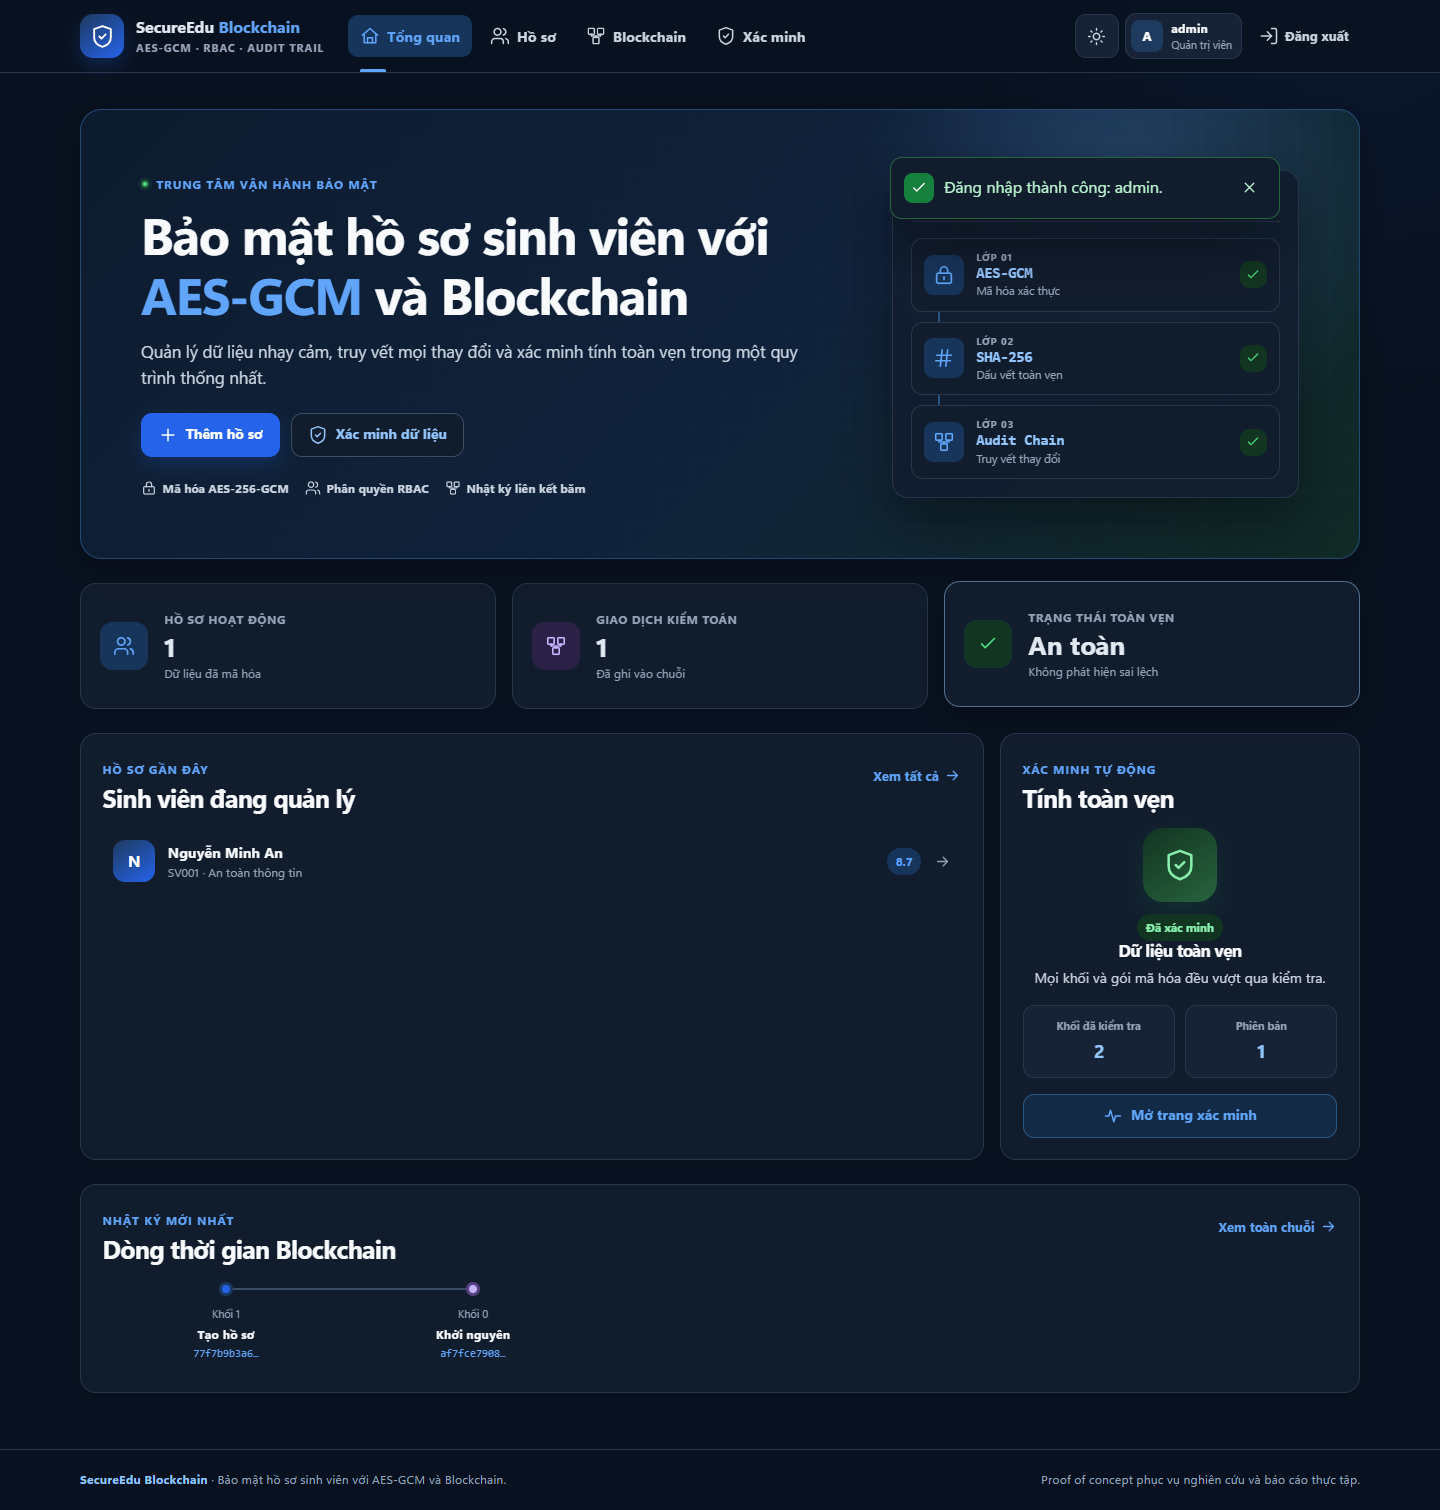
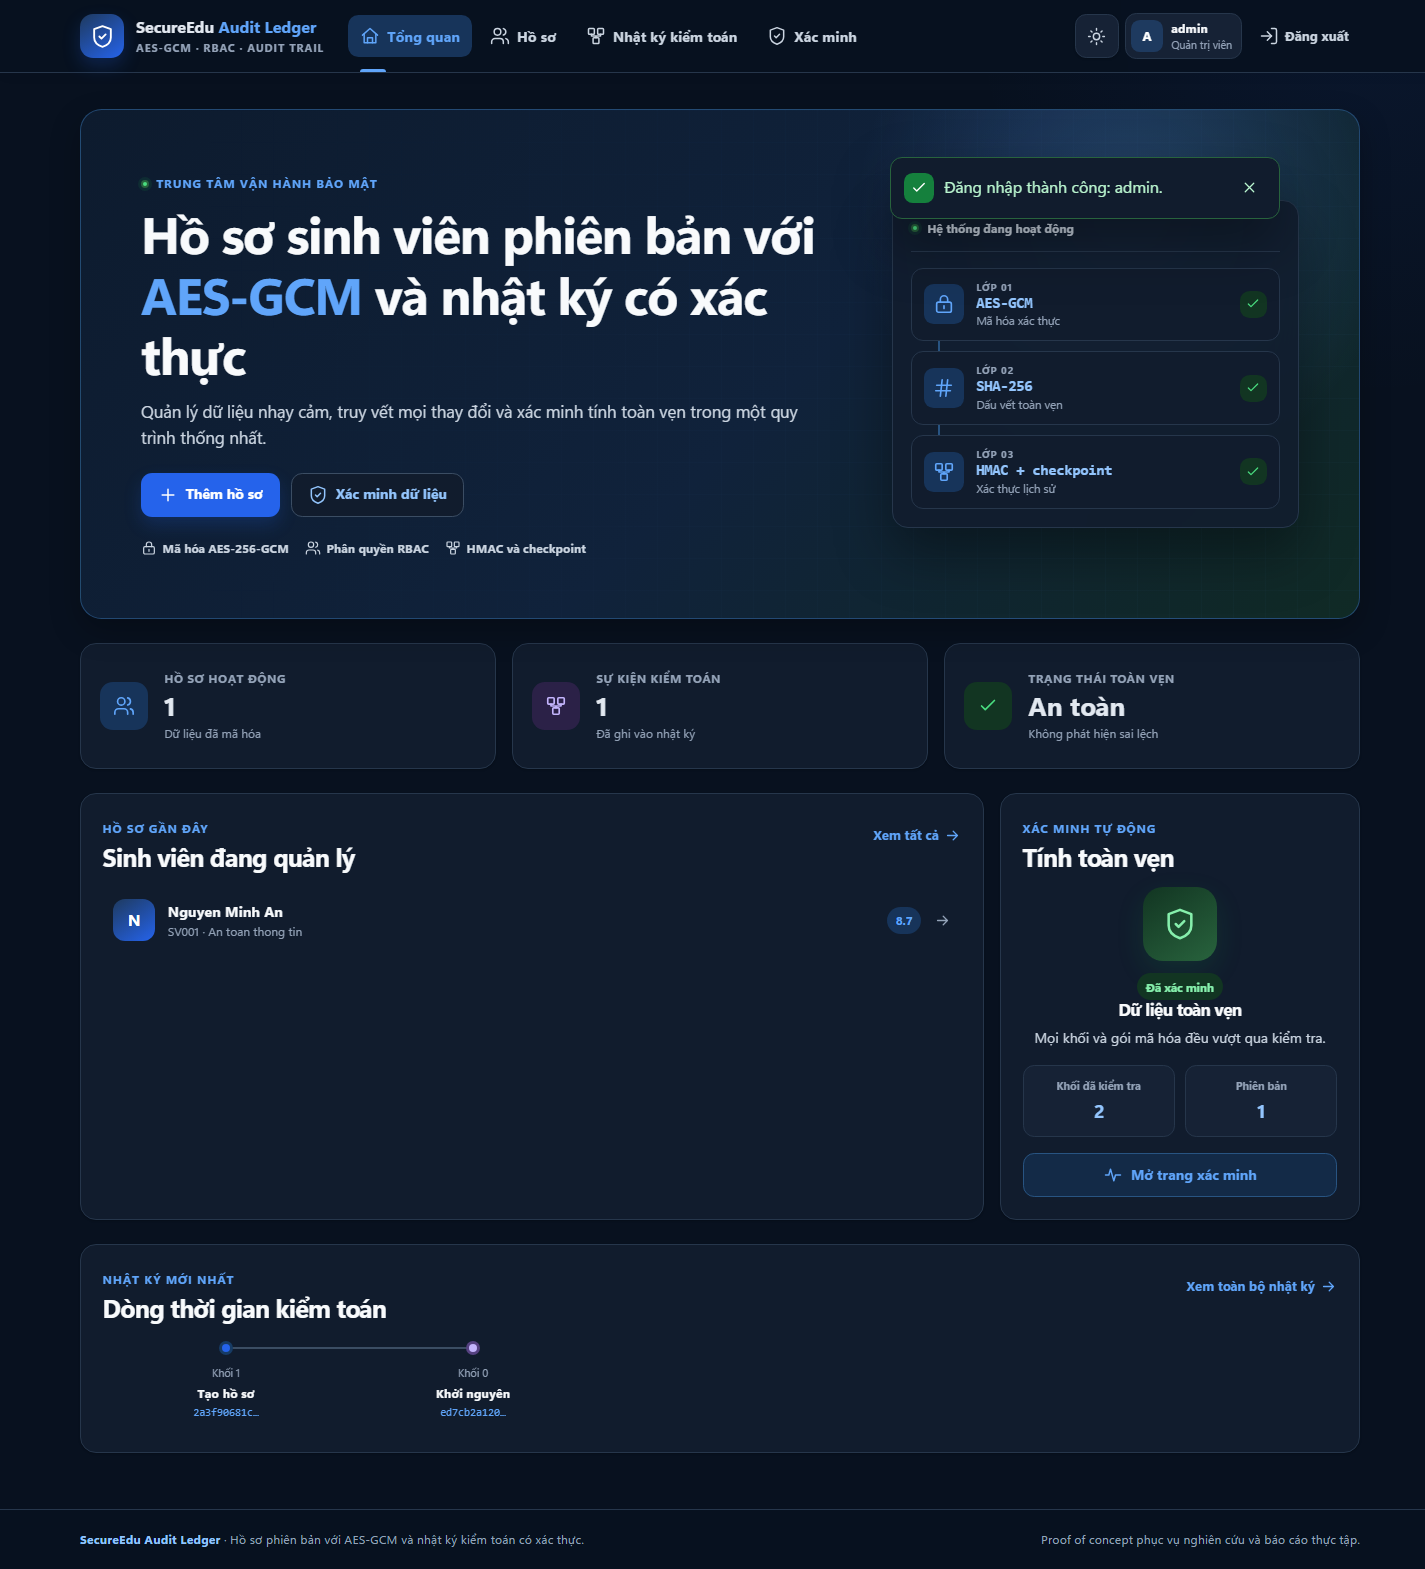
feat: align web UI with authenticated audit model

diff --git a/src/web/templates/blockchain.html b/src/web/templates/blockchain.html
@@ -1,18 +1,18 @@
 {% extends "base.html" %}
 {% from "_icons.html" import icon %}
-{% block title %}Nhật ký audit | SecureEdu Audit Ledger{% endblock %}
+{% block title %}Nhật ký kiểm toán | SecureEdu Audit Ledger{% endblock %}
 {% block content %}
 <header class="page-header">
-  <div><span class="eyebrow">Authenticated audit ledger</span><h1>Nhật ký kiểm toán có xác thực</h1><p>Mỗi thay đổi tạo một block liên kết với block trước và được xác thực bằng HMAC.</p></div>
-  <a class="button button-secondary" href="{{ url_for('web.verification') }}">{{ icon('verify') }} Kiểm tra toàn chuỗi</a>
+  <div><span class="eyebrow">Nhật ký xác thực một nút</span><h1>Nhật ký kiểm toán có xác thực</h1><p>Mỗi thay đổi tạo một khối liên kết với khối trước và được xác thực bằng HMAC khóa bí mật.</p></div>
+  <a class="button button-secondary" href="{{ url_for('web.verification') }}">{{ icon('verify') }} Kiểm tra toàn bộ nhật ký</a>
 </header>
 
-<div class="notice notice-info">{{ icon('blocks') }}<div><strong>Authenticated audit log một nút</strong><span>HMAC bảo vệ từng block; checkpoint ngoài SQLite giúp phát hiện rollback trong ranh giới tin cậy đã nêu.</span></div></div>
+<div class="notice notice-info">{{ icon('blocks') }}<div><strong>Ranh giới bảo vệ được công bố rõ</strong><span>HMAC bảo vệ từng khối; checkpoint ngoài SQLite giúp phát hiện rollback khi người ghi database không có khóa audit và không sửa được checkpoint.</span></div></div>
 
-<section class="chain-summary" aria-label="Tổng quan chuỗi">
+<section class="chain-summary" aria-label="Tổng quan nhật ký kiểm toán">
   <div>{{ icon('blocks', 21) }}<span>Tổng số khối</span><strong>{{ blocks|length }}</strong></div>
-  <div>{{ icon('hash', 21) }}<span>Thuật toán băm</span><strong>SHA-256</strong></div>
-  <div>{{ icon('shield', 21) }}<span>Cơ chế dữ liệu</span><strong>Append-only</strong></div>
+  <div>{{ icon('hash', 21) }}<span>Băm và xác thực</span><strong>SHA-256 · HMAC</strong></div>
+  <div>{{ icon('shield', 21) }}<span>Checkpoint hiện tại</span><strong class="{{ 'summary-valid' if report.valid else 'summary-invalid' }}">{{ 'Đã đối chiếu' if report.valid else 'Có cảnh báo' }}</strong></div>
 </section>
 
 <section class="chain-list" aria-label="Danh sách khối">
@@ -33,9 +33,10 @@
           <div><span>Previous hash</span><code title="{{ block.previous_hash }}">{{ block.previous_hash }}</code></div>
           <div><span>Envelope hash</span><code title="{{ block.envelope_hash }}">{{ block.envelope_hash }}</code></div>
           <div class="current-hash"><span>Current block hash</span><code title="{{ block.block_hash }}">{{ block.block_hash }}</code></div>
+          <div class="block-mac"><span>Block HMAC</span><code title="{{ block.block_mac }}">{{ block.block_mac }}</code></div>
         </div>
       </div>
     </article>
-  {% else %}<div class="empty-state panel"><span class="empty-icon">{{ icon('blocks', 30) }}</span><h2>Chuỗi chưa được khởi tạo</h2><p>Hãy khởi tạo cơ sở dữ liệu trước khi sử dụng.</p></div>{% endfor %}
+  {% else %}<div class="empty-state panel"><span class="empty-icon">{{ icon('blocks', 30) }}</span><h2>Nhật ký chưa được khởi tạo</h2><p>Hãy khởi tạo cơ sở dữ liệu trước khi sử dụng.</p></div>{% endfor %}
 </section>
 {% endblock %}

diff --git a/src/web/templates/dashboard.html b/src/web/templates/dashboard.html
@@ -5,7 +5,7 @@
 <section class="hero security-hero">
   <div class="hero-copy">
     <span class="eyebrow"><span class="live-dot"></span> Trung tâm vận hành bảo mật</span>
-    <h1>Hồ sơ sinh viên phiên bản với <span>AES-GCM</span> và audit có xác thực</h1>
+    <h1>Hồ sơ sinh viên phiên bản với <span>AES-GCM</span> và nhật ký có xác thực</h1>
     <p>Quản lý dữ liệu nhạy cảm, truy vết mọi thay đổi và xác minh tính toàn vẹn trong một quy trình thống nhất.</p>
     <div class="hero-actions">
       {% if can_manage_records() %}
@@ -16,7 +16,7 @@
     <div class="hero-trust">
       <span>{{ icon('lock', 16) }} Mã hóa AES-256-GCM</span>
       <span>{{ icon('users', 16) }} Phân quyền RBAC</span>
-      <span>{{ icon('blocks', 16) }} Nhật ký liên kết băm</span>
+      <span>{{ icon('blocks', 16) }} HMAC và checkpoint</span>
     </div>
   </div>
   <div class="security-flow" aria-label="Quy trình bảo vệ dữ liệu gồm ba bước">
@@ -35,7 +35,7 @@
     <div class="flow-connector" aria-hidden="true"></div>
     <div class="flow-step">
       <span class="flow-icon">{{ icon('blocks', 22) }}</span>
-      <div><small>Lớp 03</small><strong>Audit Chain</strong><span>Truy vết thay đổi</span></div>
+      <div><small>Lớp 03</small><strong>HMAC + checkpoint</strong><span>Xác thực lịch sử</span></div>
       <span class="flow-check">{{ icon('check', 16) }}</span>
     </div>
   </div>
@@ -48,7 +48,7 @@
   </article>
   <article class="stat-card">
     <span class="stat-icon icon-block">{{ icon('blocks', 22) }}</span>
-    <div><span>Giao dịch kiểm toán</span><strong>{{ block_count }}</strong><small>Đã ghi vào chuỗi</small></div>
+    <div><span>Sự kiện kiểm toán</span><strong>{{ block_count }}</strong><small>Đã ghi vào nhật ký</small></div>
   </article>
   <article class="stat-card">
     <span class="stat-icon {{ 'icon-valid' if report.valid else 'icon-invalid' }}">{{ icon('check' if report.valid else 'alert', 22) }}</span>
@@ -77,7 +77,7 @@
       <div class="empty-state compact">
         <span class="empty-icon">{{ icon('file', 28) }}</span>
         <h3>Chưa có hồ sơ</h3>
-        <p>{{ 'Thêm sinh viên đầu tiên để bắt đầu chuỗi kiểm toán.' if can_manage_records() else 'Chưa có hồ sơ nào trong phạm vi theo dõi.' }}</p>
+        <p>{{ 'Thêm sinh viên đầu tiên để bắt đầu nhật ký kiểm toán.' if can_manage_records() else 'Chưa có hồ sơ nào trong phạm vi theo dõi.' }}</p>
       </div>
     {% endif %}
   </section>
@@ -99,7 +99,7 @@
 {% if recent_blocks %}
 <section class="panel recent-chain">
   <div class="panel-heading">
-    <div><span class="eyebrow">Nhật ký mới nhất</span><h2>Dòng thời gian audit</h2></div>
+    <div><span class="eyebrow">Nhật ký mới nhất</span><h2>Dòng thời gian kiểm toán</h2></div>
     <a class="text-link" href="{{ url_for('web.blockchain') }}">Xem toàn bộ nhật ký {{ icon('arrow-right', 17) }}</a>
   </div>
   <div class="timeline-horizontal">

diff --git a/src/web/static/css/style.css b/src/web/static/css/style.css
@@ -718,6 +718,8 @@ html[data-theme="dark"] .theme-icon-sun { opacity: 1; transform: none; }
 .chain-summary svg { color: var(--color-secondary); }
 .chain-summary span { color: var(--color-muted); font-size: .75rem; }
 .chain-summary strong { color: var(--color-primary); font-family: Consolas, monospace; font-size: .85rem; }
+.chain-summary .summary-valid { color: var(--color-success-foreground); }
+.chain-summary .summary-invalid { color: var(--color-destructive); }
 .chain-list { display: grid; gap: .75rem; }
 .block-card { position: relative; display: grid; padding: 1rem; border: 1px solid var(--color-border); border-radius: var(--radius-lg); background: var(--color-surface); box-shadow: var(--shadow-sm); grid-template-columns: 78px 1fr; gap: 1rem; }
 .block-card:hover { border-color: var(--color-hover-border); box-shadow: var(--shadow-md); }
@@ -742,8 +744,9 @@ html[data-theme="dark"] .theme-icon-sun { opacity: 1; transform: none; }
 .block-facts span, .hash-grid span { color: var(--color-muted); font-size: .62rem; font-weight: 700; letter-spacing: .045em; text-transform: uppercase; }
 .block-facts strong { margin-top: .2rem; font-size: .78rem; }
 .block-facts code, .hash-grid code { overflow: hidden; margin-top: .2rem; color: var(--color-primary); font-size: .68rem; text-overflow: ellipsis; white-space: nowrap; }
-.hash-grid { display: grid; grid-template-columns: repeat(3, minmax(0, 1fr)); gap: .6rem; }
+.hash-grid { display: grid; grid-template-columns: repeat(2, minmax(0, 1fr)); gap: .6rem; }
 .hash-grid .current-hash { border-color: var(--color-blue-border); background: var(--color-blue-soft); }
+.hash-grid .block-mac { border-color: var(--color-success-border); background: var(--color-success-soft); }
 .genesis-copy { margin: .3rem 0 .8rem; font-size: .83rem; }
 
 .login-shell { display: grid; align-items: center; min-height: calc(100vh - 235px); grid-template-columns: minmax(0, 1.05fr) minmax(360px, .75fr); gap: clamp(2rem, 7vw, 6rem); }
@@ -824,6 +827,7 @@ html.theme-changing *, html.theme-changing *::before, html.theme-changing *::aft
   .page-header { display: grid; align-items: start; gap: 1rem; }
   .page-header .button { width: 100%; }
   .hero { padding: 1.35rem; border-radius: var(--radius-lg); }
+  .flash-stack { position: static; width: 100%; margin-bottom: 1rem; }
   .hero-copy h1 { font-size: 2.15rem; }
   .hero-trust { display: grid; }
   .stats-grid, .chain-summary { grid-template-columns: 1fr; }

diff --git a/src/web/templates/base.html b/src/web/templates/base.html
@@ -13,7 +13,7 @@
   <meta name="viewport" content="width=device-width, initial-scale=1">
   <meta name="color-scheme" content="light dark">
   <meta name="theme-color" content="#1e3a5f">
-  <meta name="description" content="SecureEdu Audit Ledger — hồ sơ sinh viên phiên bản với AES-GCM, HMAC audit và checkpoint ngoài SQLite.">
+  <meta name="description" content="SecureEdu Audit Ledger — hồ sơ sinh viên phiên bản với AES-GCM, HMAC từng khối và checkpoint ngoài SQLite.">
   <title>{% block title %}SecureEdu Audit Ledger{% endblock %}</title>
   <link rel="icon" href="{{ url_for('static', filename='favicon.svg') }}" type="image/svg+xml">
   <script src="{{ url_for('static', filename='js/theme.js') }}"></script>
@@ -40,7 +40,7 @@
           <div class="nav-links">
             <a class="{{ 'active' if request.endpoint == 'web.dashboard' else '' }}" href="{{ url_for('web.dashboard') }}">{{ icon('home') }}<span>Tổng quan</span></a>
             <a class="{{ 'active' if request.endpoint in ['web.students', 'web.new_student', 'web.student_detail', 'web.edit_student'] else '' }}" href="{{ url_for('web.students') }}">{{ icon('users') }}<span>Hồ sơ</span></a>
-            <a class="{{ 'active' if request.endpoint == 'web.blockchain' else '' }}" href="{{ url_for('web.blockchain') }}">{{ icon('blocks') }}<span>Nhật ký audit</span></a>
+            <a class="{{ 'active' if request.endpoint == 'web.blockchain' else '' }}" href="{{ url_for('web.blockchain') }}">{{ icon('blocks') }}<span>Nhật ký kiểm toán</span></a>
             <a class="{{ 'active' if request.endpoint == 'web.verification' else '' }}" href="{{ url_for('web.verification') }}">{{ icon('verify') }}<span>Xác minh</span></a>
           </div>
           <div class="nav-account">

diff --git a/src/web/templates/verification.html b/src/web/templates/verification.html
@@ -3,7 +3,7 @@
 {% block title %}Xác minh dữ liệu | SecureEdu Audit Ledger{% endblock %}
 {% block content %}
 <header class="page-header">
-  <div><span class="eyebrow">Security verification center</span><h1>Xác minh tính toàn vẹn</h1><p>Kiểm tra đồng thời thẻ xác thực AES-GCM, dấu vết SHA-256 và liên kết giữa các khối.</p></div>
+  <div><span class="eyebrow">Trung tâm xác minh bảo mật</span><h1>Xác minh tính toàn vẹn</h1><p>Kiểm tra đồng thời AES-GCM, SHA-256, HMAC từng khối và checkpoint của head hiện tại.</p></div>
 </header>
 
 <div class="content-grid verification-layout">
@@ -18,7 +18,7 @@
       <div class="check-list" aria-label="Ba lớp được kiểm tra">
         <div><span class="check-number">{{ icon('lock', 18) }}</span><p><strong>Xác thực AES-GCM</strong><small>Phát hiện bản mã, nonce hoặc ngữ cảnh bị thay đổi.</small></p></div>
         <div><span class="check-number">{{ icon('hash', 18) }}</span><p><strong>Đối chiếu SHA-256</strong><small>So sánh gói lưu trữ với dấu vết trong khối.</small></p></div>
-        <div><span class="check-number">{{ icon('blocks', 18) }}</span><p><strong>Kiểm tra nhật ký audit</strong><small>Xác minh block hash, HMAC, thứ tự liên kết và checkpoint.</small></p></div>
+        <div><span class="check-number">{{ icon('blocks', 18) }}</span><p><strong>Kiểm tra nhật ký xác thực</strong><small>Xác minh block hash, HMAC, thứ tự liên kết và checkpoint.</small></p></div>
       </div>
       <button class="button button-primary button-full" type="submit" data-submit-label="Đang kiểm tra dữ liệu…">{{ icon('activity') }} <span>Bắt đầu xác minh</span></button>
     </form>

diff --git a/src/web/templates/login.html b/src/web/templates/login.html
@@ -10,7 +10,7 @@
     <div class="login-feature-list">
       <div><span class="feature-icon">{{ icon('lock', 21) }}</span><p><strong>AES-256-GCM</strong><small>Bảo mật nội dung và phát hiện chỉnh sửa bản mã.</small></p></div>
       <div><span class="feature-icon">{{ icon('users', 21) }}</span><p><strong>Kiểm soát RBAC</strong><small>Phân quyền quản trị, học vụ và kiểm toán rõ ràng.</small></p></div>
-      <div><span class="feature-icon">{{ icon('blocks', 21) }}</span><p><strong>Authenticated audit</strong><small>HMAC và checkpoint bảo vệ dấu vết thay đổi theo từng phiên bản.</small></p></div>
+      <div><span class="feature-icon">{{ icon('blocks', 21) }}</span><p><strong>Nhật ký có xác thực</strong><small>HMAC và checkpoint bảo vệ dấu vết thay đổi theo từng phiên bản.</small></p></div>
     </div>
     <div class="login-proof">{{ icon('shield', 18) }} <span>Phiên đăng nhập được ký, giới hạn thời gian và bảo vệ CSRF.</span></div>
   </div>

diff --git a/src/web/routes.py b/src/web/routes.py
@@ -198,13 +198,18 @@ def delete_student(record_id: str):
     except (RecordServiceError, ValueError, KeyError) as error:
         flash(_friendly_error(error), "error")
         return redirect(url_for("web.student_detail", record_id=record_id))
-    flash("Đã xóa hồ sơ và ghi lại thao tác trong chuỗi kiểm toán.", "success")
+    flash("Đã xóa hồ sơ và ghi lại thao tác trong nhật ký kiểm toán.", "success")
     return redirect(url_for("web.students"))
 
 
 @web.get("/blockchain")
 def blockchain():
-    return render_template("blockchain.html", blocks=_service().list_blocks())
+    service = _service()
+    return render_template(
+        "blockchain.html",
+        blocks=service.list_blocks(),
+        report=service.verify_all(),
+    )
 
 
 @web.route("/verification", methods=["GET", "POST"])

diff --git a/tests/test_web.py b/tests/test_web.py
@@ -107,6 +107,16 @@ def test_main_pages_are_available(client, path) -> None:
     assert b'content="light dark"' in response.data
 
 
+def test_audit_page_surfaces_hmac_and_checkpoint_status(client, app) -> None:
+    response = client.get("/blockchain")
+    block_mac = app.extensions["record_service"].list_blocks()[0]["block_mac"]
+
+    assert response.status_code == 200
+    assert b"Block HMAC" in response.data
+    assert "Đã đối chiếu".encode("utf-8") in response.data
+    assert block_mac.encode("ascii") in response.data
+
+
 def test_anonymous_user_is_redirected_to_login(anonymous_client) -> None:
     response = anonymous_client.get("/students", follow_redirects=False)
     assert response.status_code == 302

diff --git a/docs/RA_SOAT_VA_CHINH_SUA.md b/docs/RA_SOAT_VA_CHINH_SUA.md
@@ -34,8 +34,8 @@ Hệ thống **chưa đạt mức triển khai với dữ liệu thật** vì ch
 | Cài `requirements-lock.txt` trong môi trường mới | Đạt |
 | `pip check` | Không có phụ thuộc hỏng |
 | Biên dịch toàn bộ tệp Python | Đạt |
-| Kiểm thử tự động | 116/116 đạt |
-| Độ bao phủ | 90,81% tổng thể |
+| Kiểm thử tự động | 117/117 đạt |
+| Độ bao phủ | 90,82% tổng thể |
 | Benchmark FAIR đã lưu | Giữ để tham chiếu; cần chạy lại sau thay đổi schema v4 |
 | Tamper test sau nâng cấp | 13 kiểu × 30 lần; 390/390 phát hiện |
 | Migration database schema v1-v3 lên v4 | Đạt; backfill `block_mac` và checkpoint |
@@ -98,7 +98,7 @@ Workspace là clone độc lập của repository. Đợt sửa đã được ki
 6. Bổ sung `users`, trang đăng nhập, session hết hạn, lockout và RBAC.
 7. Bổ sung `scripts/manage_user.py` để tạo, liệt kê, đổi mật khẩu/vai trò và vô hiệu hóa tài khoản.
 8. Nâng schema mật mã/block lên v2 để bảo vệ `actor_id`/role, kèm migration v1.
-9. Bổ sung kiểm thử nhánh bảo mật và đặt ngưỡng coverage bắt buộc 90%; kết quả hiện tại 116/116 test, 90,81%.
+9. Bổ sung kiểm thử nhánh bảo mật và đặt ngưỡng coverage bắt buộc 90%; kết quả hiện tại 117/117 test, 90,82%.
 10. Đổi tên giao diện thành **SecureEdu Audit Ledger**, giữ route/package nội bộ `blockchain` để tương thích.
 11. Kiểm tra thực tế bằng Chrome ở 1440 px và 375 px; không có tràn ngang, menu mobile và luồng đăng nhập hoạt động.
 12. Nâng schema lên v4 với `block_mac`, checkpoint ngoài SQLite và bộ thử 13 kiểu can thiệp, gồm các ca thích nghi.

diff --git a/docs/report/du_thao_noi_dung.md b/docs/report/du_thao_noi_dung.md
@@ -2,7 +2,7 @@
 
 ## trạng thái tài liệu
 
-Tệp này đang được sửa sau phản biện FAIR 2026. Phiên bản mã nguồn mới có HMAC cho từng block, checkpoint head ngoài SQLite, 116 kiểm thử tự động và độ bao phủ 90,81%. Các số liệu hiệu năng ngày 12/07/2026 thuộc thiết kế cũ và chỉ được giữ làm dấu vết; không dùng làm kết quả của bản REV-ECIT trước khi chạy lại.
+Tệp này đang được sửa sau phản biện FAIR 2026. Phiên bản mã nguồn mới có HMAC cho từng block, checkpoint head ngoài SQLite, 117 kiểm thử tự động và độ bao phủ 90,82%. Các số liệu hiệu năng ngày 12/07/2026 thuộc thiết kế cũ và chỉ được giữ làm dấu vết; không dùng làm kết quả của bản REV-ECIT trước khi chạy lại.
 
 Bộ số liệu 30 lần lặp được tạo trước đợt bổ sung đăng nhập/RBAC và actor schema v2 ngày 20/07/2026. Chức năng mới đã qua kiểm thử và chạy benchmark nhanh, nhưng phải chạy lại bộ 30 lần lặp trước khi dùng số hiệu năng như kết quả cuối của phiên bản hiện tại.
 
@@ -183,8 +183,8 @@ Giao diện được thiết kế theo hướng dashboard bảo mật doanh nghi
 
 | chỉ tiêu | kết quả ngày 27/09/2026 |
 |---|---|
-| kiểm thử tự động | 116/116 đạt |
-| độ bao phủ mã nguồn | 90,81% tổng thể |
+| kiểm thử tự động | 117/117 đạt |
+| độ bao phủ mã nguồn | 90,82% tổng thể |
 | ngưỡng coverage bắt buộc | tối thiểu 90% |
 | kiểm tra phụ thuộc | không có phụ thuộc hỏng |
 | kiểm tra giao diện Chrome | đạt ở 375 px và 1440 px; không tràn ngang |

diff --git a/docs/THUC_NGHIEM_TAI_LAP.md b/docs/THUC_NGHIEM_TAI_LAP.md
@@ -66,7 +66,7 @@ Kết quả gồm 13 kiểu can thiệp, mỗi kiểu 30 lần: sáu mutation kh
 
 ## 6. Kiểm tra trước khi dùng trong bài báo
 
-- Xác nhận `116/116` kiểm thử vượt qua và độ bao phủ không dưới 90%.
+- Xác nhận `117/117` kiểm thử vượt qua và độ bao phủ không dưới 90%.
 - Xác nhận mỗi cặp cấu hình/kích thước có đúng 30 lần lặp.
 - Đối chiếu trực tiếp các giá trị trong bảng bài báo với `summary_*.csv`.
 - Ghi rõ commit, môi trường máy chạy, thời điểm chạy và seed.
